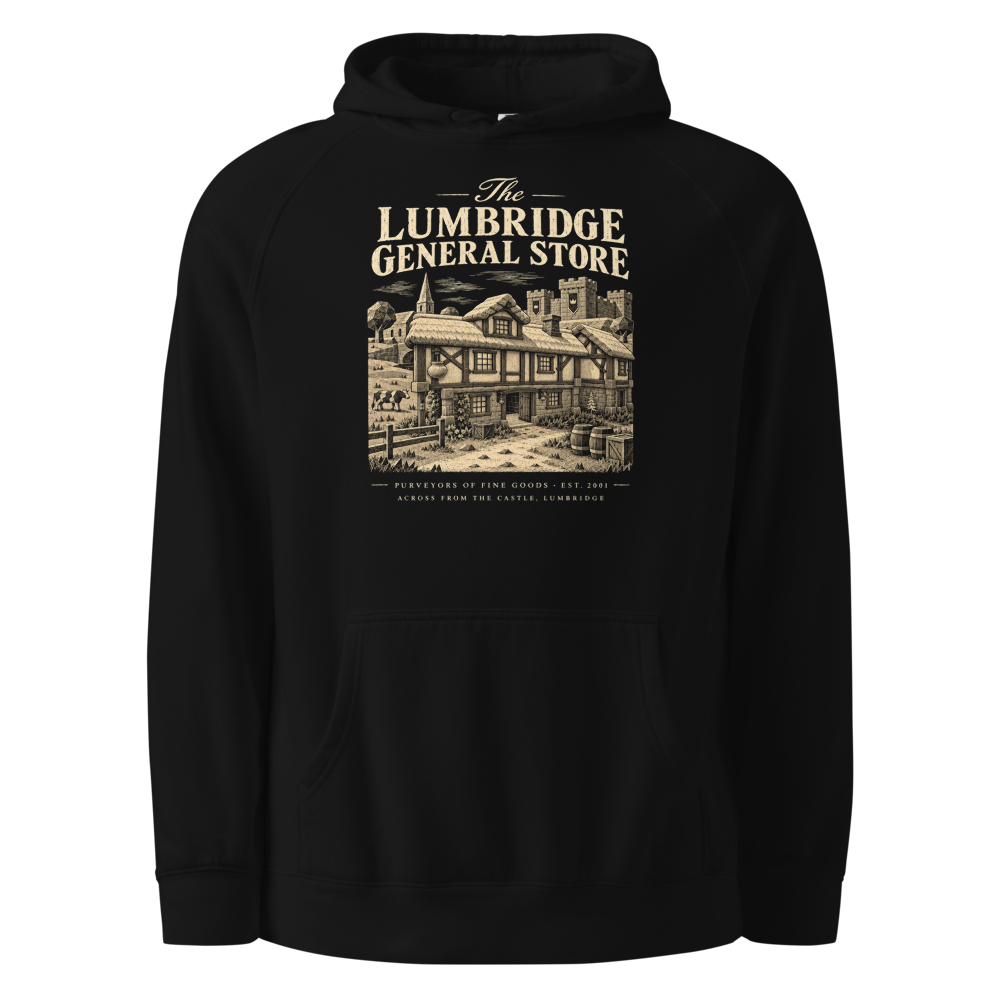
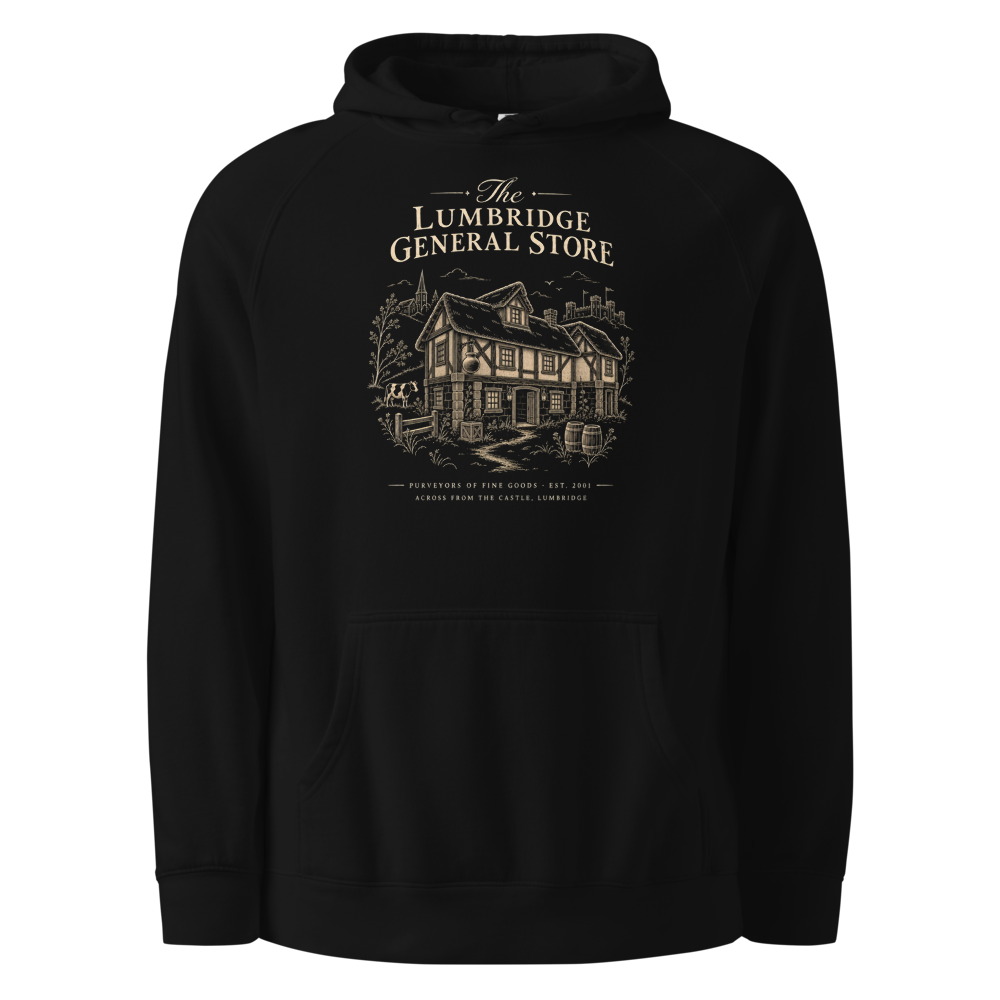
Cache-bust Printful file URLs; regenerate Lumbridge mockups and products
Printful caches downloads by URL, so the replaced Lumbridge artwork was
rendered with the old file. Both scripts now tag the print URL with the
file hash. Lumbridge mockups and store products were recreated.

Changed region(s): [[0.341, 0.155, 0.651, 0.527]]

diff --git a/src/lib/products.ts b/src/lib/products.ts
@@ -89,19 +89,19 @@ const TEE_PRICE = 4900;
 // Key: <slug>__<garment>__<colour slug>; value: size -> Printful sync_variant_id.
 const PRINTFUL_VARIANTS: Record<string, Record<string, number>> = {
   "lumbridge-general-store__hoodie__black": {
-    "S": 5497826523,
-    "M": 5497826524,
-    "L": 5497826525,
-    "XL": 5497826526,
-    "2XL": 5497826527
+    "S": 5497829767,
+    "M": 5497829768,
+    "L": 5497829769,
+    "XL": 5497829770,
+    "2XL": 5497829771
   },
   "lumbridge-general-store__tee__black": {
-    "S": 5497826528,
-    "M": 5497826529,
-    "L": 5497826530,
-    "XL": 5497826531,
-    "2XL": 5497826532,
-    "3XL": 5497826533
+    "S": 5497829775,
+    "M": 5497829776,
+    "L": 5497829777,
+    "XL": 5497829778,
+    "2XL": 5497829779,
+    "3XL": 5497829780
   },
   "blue-moon-inn__hoodie__charcoal": {
     "S": 5497826540,
